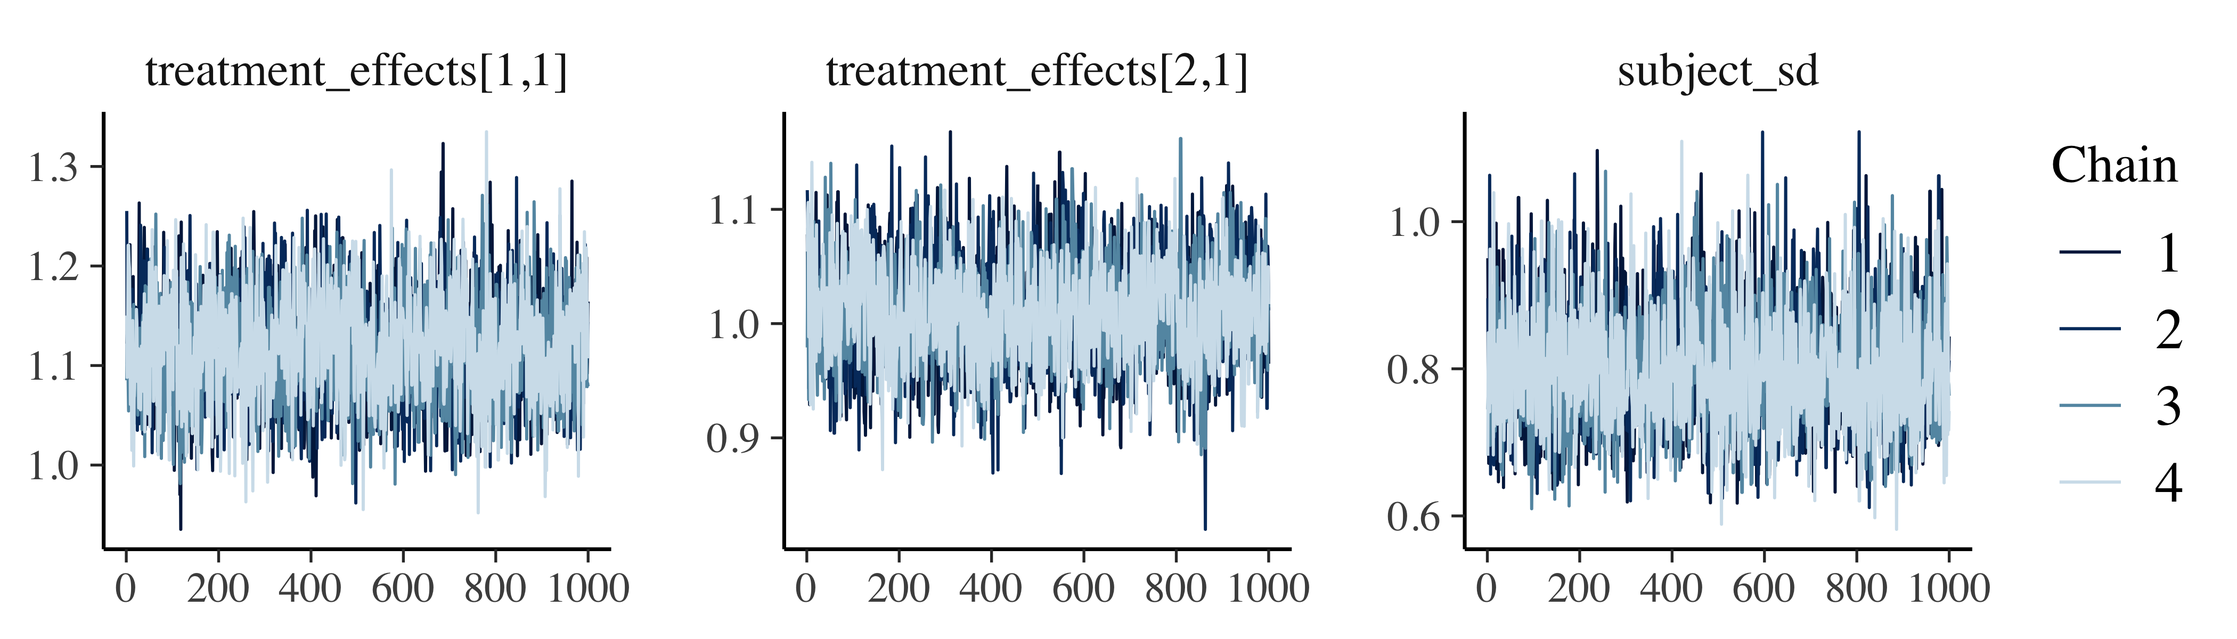
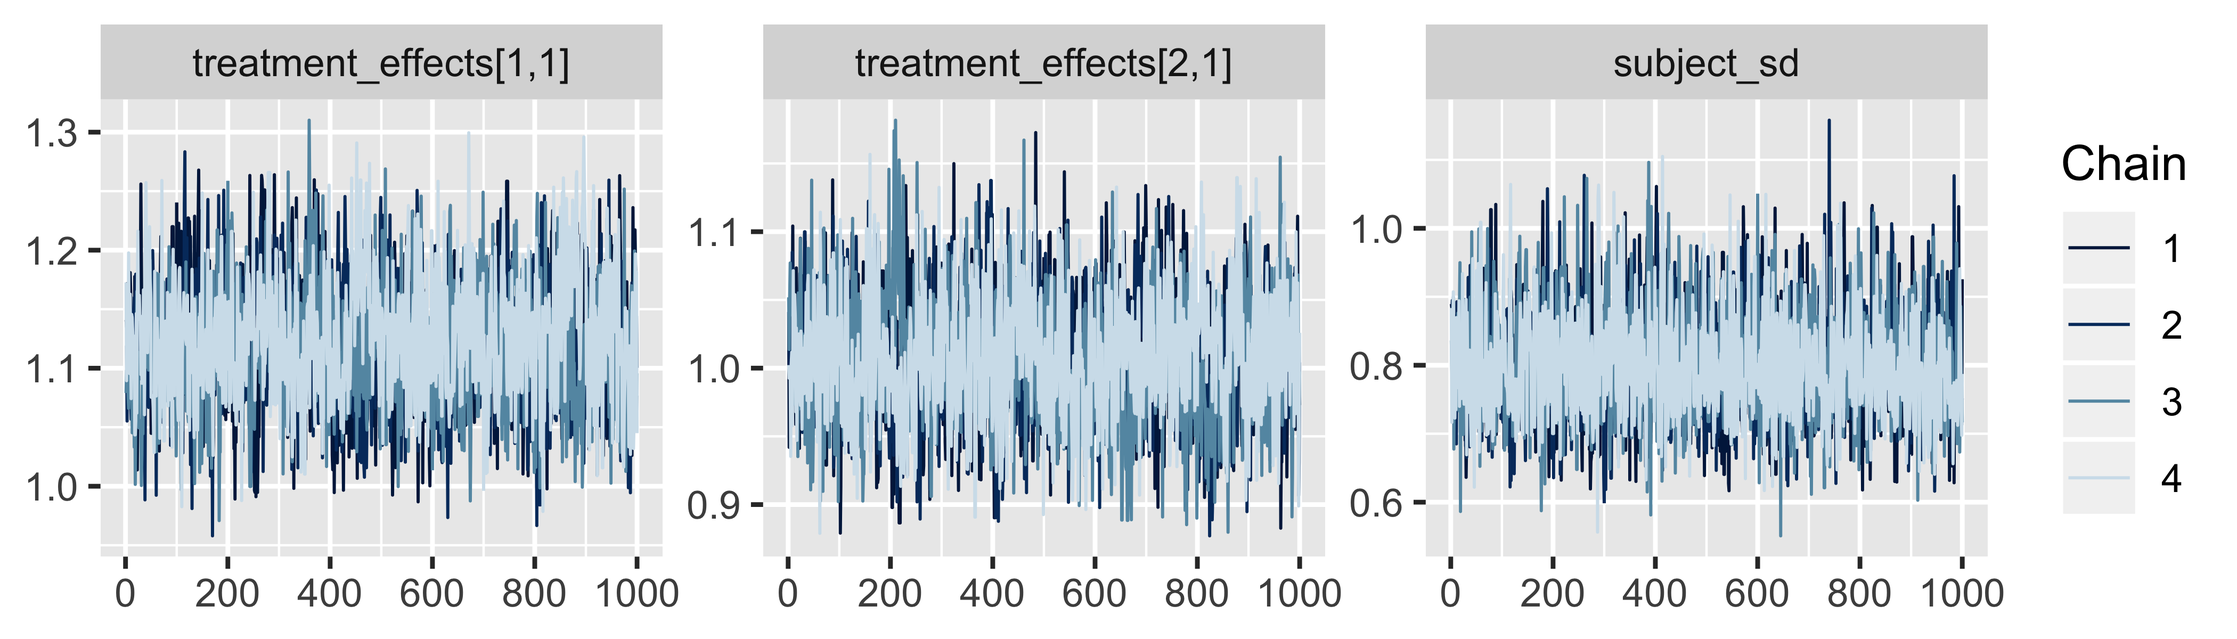
incorporate Nick T's comments

diff --git a/paper/paper.md b/paper/paper.md
@@ -24,33 +24,38 @@ output:
 
 # Summary
 
-Statistical modelling useful throughout the sciences. Often a need to write custom models that cannot be fitted using off-the shelf statistical software (such as software for for fitting mixed effects models). Hence writing out the model in a modelling language and fitting them by MCMC or maximum likelihood. This lets the user focus on the statistical nature of the model, rather than implementation details and inference procedures. This has lead to the development of software including BUGS, JAGS and NIMBLE [@openbugs; @jags; @nimble]. In these software packages, users typically write out models in a domain-specific language which is then compiled into computational code - though see the Python packages PyMC and Edward [@pymc; @edward].
+Statistical modelling is used throughout the sciences.
+Often, statistical analyses require custom models that cannot be fitted using off-the shelf statistical software.
+These models can be specified in a statistical syntax and can then be automatically fit to data using methods such as Markov Chain monte Carlo (MCMC) and maximum likelihood.
+This lets users focus on the statistical nature of the model, rather than implementation details and inference procedures.
+Since the development of the widely successful WinBUGS (later developed as OpenBUGS; @openbugs) a number of alternative software packages for custom statistical modelling have been introduced, including JAGS, Stan, and NIMBLE [@jags; @stan; @nimble].
+In these software packages, users typically write out models in a domain-specific language, which is then compiled into computational code.
+Though see the Python packages PyMC and Edward [@pymc; @edward] in which models are specified in Python code.
 
-With increasing quantitites of data and increasing complexity and realism of the statistical models that users wish to buiold with these software, ther is a push for software that scales better with data size and model complexity. Therefore using Hamiltonian Monte Carlo rather than Gibbs samplers, and paying particular attention to computational efficiency (Stan) [@stan].
+With increasing quantities of data, complexity, and realism of statistical models that users wish to build with these software, there is a push for software that scales better with data size and model complexity.
+More recently, custom statistical modelling software has focussed on methods such as Hamiltonian Monte Carlo (rather than Gibbs samplers) in order to improve to computational efficiency.
+This can be seen for example in the development of Stan [@stan].
 
-greta is an R package for statistical modelling that has three core differences to commonly used statistical modelling software packages:
+greta is an package for statistical modelling in R [@Rcore] that has three core differences to commonly used statistical modelling software packages:
 
   1. greta models are written interactively in R code rather than in a compiled domain specific language.
   2. greta can be extended by other R packages; providing a fully-featured package management system for extensions.
-  3. greta performs statistical inference using TensorFlow [@tf] enabling it to scale across modern high-performance computing systems.
+  3. greta performs statistical inference using TensorFlow [@tf], enabling it to scale across modern high-performance computing systems.
   
-greta can be used to construct both Bayesian and non-Bayesian statistical models, and perform inference via MCMC or optimisation (for maximum likelihood or maximum *a posteriori* estimation). The default MCMC algorithm is Hamiltonian Monte Carlo, which is generally very efficient for Bayesian models with large numbers of parameters or highly-correlated posteriors.
+greta can be used to construct both Bayesian and non-Bayesian statistical models, and perform inference via MCMC or optimisation (for maximum likelihood or maximum *a posteriori* estimation).
+The default MCMC algorithm is Hamiltonian Monte Carlo, which is generally very efficient for Bayesian models with large numbers of parameters or highly-correlated posteriors.
 
-The project website [https://greta-stats.org/]() hosts a *getting started* guide, worked examples of analyses using greta, a catalogue of example models, documentation, and a user forum.
+The project website [https://greta-stats.org/](https://greta-stats.org/) hosts a *getting started* guide, worked examples of analyses using greta, a catalogue of example models, documentation, and a user forum.
+
+The remainder of this paper provides an example of custom statistical modelling in greta, discusses the computational implementation of greta and how it can be extended, and highlights features that are planned for inclusion in the package.
 
 ## Example
 
-The following illustrates a typical modelling session with greta, using a
-Bayesian hierarchical model to estimate the treatment effect of epilepsy
-medication using data provided in the MASS R package (@mass, distributed
-with R) and analysed in the corresponding book.
+The following illustrates a typical modelling session with greta, using a Bayesian hierarchical model to estimate the treatment effect of epilepsy medication using data provided in the MASS R package (@mass, distributed with R) and analysed in the corresponding book.
 
 
 
-Before we specify the greta model, we format the data to make out lives
-easier; adding a numeric version of the treatment type and making a vector of
-the (8-week) baseline counts for each subject (these counts are replicated in
-the epil object).
+Before we specify the greta model we format the data,  adding a numeric version of the treatment type and making a vector of the (8-week) baseline counts for each subject (these counts are replicated in the epil object).
 
 
 ```r
@@ -59,10 +64,8 @@ epil$trt_id <- as.numeric(epil$trt)
 baseline_y <- epil$base[!duplicated(epil$subject)]
 ```
 
-Next we load greta and start building our model, starting with a random
-intercept model for the baseline (log-)seizure rates, to account for the fact
-that each individual will have a different seizure rate, irrespective of
-the treatment they receive.
+Next we load greta and start building our model, starting with a random intercept model for the baseline (log-)seizure rates, to account for the fact that each individual will have a different seizure rate, irrespective of the treatment they receive.
+Variables in greta models - like `subject_mean`, and `baseline_effects` in the below code - are represented by `greta_array` objects, which have unknown values and are used to interactively build up the statistical formulation of the model (see *Implementation* for details).
 
 
 ```r
@@ -72,17 +75,14 @@ library(greta)
 subject_mean <- normal(0, 10)
 subject_sd <- cauchy(0, 1, truncation = c(0, Inf))
 
-# hierararchical model for baseline rates (transformed to b positive)
+# hierararchical model for baseline rates (transformed to be positive)
 subject_effects <- normal(subject_mean, subject_sd, dim = 59)
 baseline_rates <- exp(subject_effects)
 ```
 
-Next we build model for the effects (the ratio of post-treatment to
-pre-treatment seizure rates) of the two treatments: placebo and progabide. We
-give these positive-truncated normal priors (they are multiplicative effects,
-so must be positive), and centre them at 1 to represent a prior expectation of
-no effect. We multiply these effects by the baseline rates to get the
-post-treatment rates for each observation in the dataset.
+Next we build a model for the effects (the ratio of post-treatment to pre-treatment seizure rates) of the two treatments: *placebo* and *progabide*.
+We give these positive-truncated normal priors (they are multiplicative effects, so must be positive), and centre them at 1 to represent a prior expectation of no effect.
+We multiply these effects by the baseline rates to get the post-treatment rates for each observation in the dataset.
 
 
 ```r
@@ -91,11 +91,9 @@ treatment_effects <- normal(1, 1, dim = 2, truncation = c(0, Inf))
 post_treatment_rates <- treatment_effects[epil$trt_id] * baseline_rates[epil$subject]
 ```
 
-Finally we specify the distributions over the observed data. Here we use two
-likelihoods: one for the baseline count (over an 8 week period) and one for
-each of the post-treatment counts (over 2 week periods). We multiply our
-modelled weekly rates by the number of weeks the counts represent to get the
-appropriate rate for that period.
+Finally we specify the distributions over the observed data.
+Here we use two likelihoods: one for the baseline count (over an 8 week period) and one for each of the post-treatment counts (over 2 week periods).
+We multiply our modelled weekly rates by the number of weeks the counts represent to get the appropriate rate for that period.
 
 
 ```r
@@ -103,21 +101,16 @@ distribution(baseline_y) <- poisson(baseline_rates * 8)
 distribution(epil$y) <- poisson(post_treatment_rates * 2)
 ```
 
-Now we can create a model object using these greta arrays, naming the
-parameters that we are most interested in, and then run an MCMC sampler on the
-model.
+Now we can create a model object using these greta arrays, naming the parameters that we are most interested in, and then run 4 chains of a Hamiltonian Monte Carlo sampler on the model, taking around 25 seconds on a laptop.
 
 
 ```r
 m <- model(treatment_effects, subject_sd)
-draws <- mcmc(m)
+draws <- mcmc(m, chains = 4)
 ```
 
-The ``draws`` object contains posterior samples in an `mcmc.list` object from
-the coda package [@coda], for which there are many packages and utilities to
-summarise the posterior samples. Here' we'll use the bayesplot package
-[@bayesplot] to create trace plots for the parameters of interest, and the
-coda package to get $\hat{R}$ statistics to assess convergence of these parameters.
+The `draws` object contains posterior samples in an `mcmc.list` object from the coda package [@coda], for which there are many packages and utilities to summarise the posterior samples.
+Here we'll use the bayesplot package [@bayesplot] to create trace plots for the parameters of interest, and the coda package to get $\hat{R}$ statistics to assess convergence of these parameters.
 
 
 ```r
@@ -134,18 +127,16 @@ coda::gelman.diag(draws)
 ## Potential scale reduction factors:
 ## 
 ##                        Point est. Upper C.I.
-## treatment_effects[1,1]          1       1.01
-## treatment_effects[2,1]          1       1.00
-## subject_sd                      1       1.01
+## treatment_effects[1,1]       1.01       1.04
+## treatment_effects[2,1]       1.01       1.05
+## subject_sd                   1.00       1.01
 ## 
 ## Multivariate psrf
 ## 
-## 1
+## 1.02
 ```
 
-We can summarise the posterior samples to get the treatment effect estimates
-for placebo and progabide, the first and second elements of
-`treatment_effects` respectively.
+We can summarise the posterior samples to get the treatment effect estimates for placebo and progabide, the first and second elements of `treatment_effects`, respectively.
 
 
 ```r
@@ -154,18 +145,19 @@ summary(draws)$statistics
 
 ```
 ##                             Mean         SD     Naive SE Time-series SE
-## treatment_effects[1,1] 1.1176199 0.05278737 0.0008346416   0.0011645811
-## treatment_effects[2,1] 1.0107183 0.04462845 0.0007056378   0.0008762349
-## subject_sd             0.7991257 0.07826540 0.0012374846   0.0014946363
+## treatment_effects[1,1] 1.1211557 0.05246518 0.0008295473    0.001509931
+## treatment_effects[2,1] 1.0074123 0.04566422 0.0007220147    0.001395410
+## subject_sd             0.8003238 0.07867619 0.0012439797    0.001333331
 ```
 
-These parameter estimates tell us the ratio of seizures rates during and
-before the treatment period for both the drug and placebo treatments. To
-calculate the effect of the drug relative to the placebo, we would take the ratio of the seizure rates between the drug treatment and the placebo treatment. We didn't include that term in our model, but fortunately there's no need to re-fit the model. greta's `calculate()` function lets us compute model quantities after model fitting.
+These parameter estimates tell us the ratio of seizure rates during and before the treatment period for both the drug and placebo treatments.
+To calculate the effect of the drug relative to the placebo, we would take the ratio of the seizure rates between the drug treatment and the placebo treatment.
+We didn't include that term in our model, but fortunately there's no need to re-fit the model.
+greta's `calculate()` function lets us compute model quantities after model fitting.
 
 
 ```r
-# create a drug effect greta array and calculate posterior samples
+# create a drug effect variable and calculate posterior samples
 drug_effect <- treatment_effects[2] / treatment_effects[1]
 drug_effect_draws <- calculate(drug_effect, draws)
 summary(drug_effect_draws)$statistics
@@ -173,41 +165,63 @@ summary(drug_effect_draws)$statistics
 
 ```
 ##           Mean             SD       Naive SE Time-series SE 
-##   0.9063622467   0.0585752902   0.0009261567   0.0012205338
+##   0.9004330745   0.0574290367   0.0009080328   0.0016683350
 ```
 
-`calculate()` can also be used for posterior prediction: we can reuse greta arrays for model parameters in combination with predictor variables to make a greta array for the predicted values of the new observations, then use `calculate()` to compute the posterior samples for these predictions. This means that  greta can be used in a predictive modelling workflow in which the data to predict to isn't available before model fitting, and without having to hand-code the predictions for all posterior samples.
+`calculate()` can also be used for posterior prediction: we can reuse greta arrays for model parameters in combination with predictor variables to make a greta array for the predicted values of the new observations, then use `calculate()` to compute the posterior samples for these predictions.
+This means greta can be used in a predictive modelling workflow in which the data to predict to isn't available before model fitting, and without having to hand-code the predictions for all posterior samples.
 
 ## Implementation
 
-As in the example above, users of greta build up their models by creating and manipulating `greta_array` objects representing parameters of other quantities in the model. `greta_array`s behave like R's arrays, vectors and scalars, but with unknown values. greta extends a number of R's mathematical functions and other operations to work with greta arrays, so users can manipulate them as they would any other numeric object in R.
+As in the example above, users of greta build up their models by creating and manipulating `greta_array` objects representing parameters of other quantities in the model.
+`greta_array`s behave like R's arrays, vectors and scalars, but with unknown values.
+greta extends a number of R's mathematical functions and other operations to work with greta arrays, so users can manipulate them as they would any other numeric object in R.
 
-Internally, each of these greta arrays is represented by an R6 object [@r6], with information on the greta arrays from which they were created, or which re created with them. Together, these R6 objects constitute a directed acyclic graph (DAG), combining data, operations, variables, and probability densities. This DAG is then used to construct a function in TensorFlow code representing the joint density of the model. This core computational functionality, including optimisers and MCMC samplers, is provided by the TensorFlow and TensorFlow Probability python packages [@tf; @tfp], accessed from R via the tensorflow and reticulate R packages [@r_tf; @reticulate].
+Internally, each of these greta arrays is represented by an R6 object [@r6], with information on the greta arrays from which they were created, or which re created with them.
+Together, these R6 objects constitute a directed acyclic graph (DAG), combining data, operations, variables, and probability densities.
+This DAG is then used to construct a function in TensorFlow code representing the joint density of the model.
+This core computational functionality, including optimisers and MCMC samplers, is provided by the TensorFlow and TensorFlow Probability Python packages [@tf; @tfp], accessed from R via the tensorflow and reticulate R packages [@r_tf; @reticulate].
 
 ## Parallelisation
 
-Whereas most MCMC software packages enable parallelisation by running each MCMC chain to run on a separate CPU, greta's use of TensorFlow means it can parallelise MCMC on a single chain across an arbitrary number of CPUs. By installing the appropriate version of TensorFlow, greta models can also be run on Graphics Processing Units (GPUs). greta is also integrated with the future R package [@future] for remote and parallel processing, providing a simple interface to run inference for each chain of MCMC on a separate, remote machines. As a consequence, inference on greta models can be scaled up to make use of modern high-performance conpute systems.
+Whereas most MCMC software packages enable parallelisation by running each MCMC chain to run on a separate CPU, greta's use of TensorFlow means it can parallelise MCMC on a single chain across an arbitrary number of CPUs.
+By installing the appropriate version of TensorFlow, greta models can also be run on Graphics Processing Units (GPUs).
+greta is also integrated with the future R package [@future] for remote and parallel processing, providing a simple interface to run inference for each chain of MCMC on a separate, remote machine.
+As a consequence, inference on greta models can be scaled up to make use of modern high-performance compute systems.
 
 ## Extending greta
 
-greta is not only designed to be extensible, but makes a deliberately distinction between the API for *users* who construct statistical models using existing functionality, and *developers* who add new functionality. Rather than letting users directly modify the inference target within a model, new probability distributions and operations are created using a developer user interface, exposed via the `.internals` object. Once developed in this way, it becomes simple to distribute this new functionality to other users via an R package that extends greta. Linking to the well established R package mechanism means that ``greta`` extensions automatically come with a  fully-featured package management system, with tooling for development and distribution via CRAN or code sharing platforms.
+greta is not only designed to be extensible, but makes a deliberately distinction between the API for *users* who construct statistical models using existing functionality, and *developers* who add new functionality.
+Rather than letting users directly modify the inference target within a model (which can be dangerous if used incorrectly), new probability distributions and operations are created using a developer user interface, exposed via the `.internals` object.
+Once developed in this way, it becomes simple to distribute this new functionality to other users via an R package that extends greta.
+Linking to the well established R package mechanism means that greta extensions automatically come with a  fully-featured package management system, with tooling for development and distribution via CRAN or code sharing platforms.
 
-Whilst anyone can write and distribute their own extension package, an aim of the greta project is to maintain a set of extension packages that meet software quality standards and are completely interoperable, in a similar way to the 'tidyverse' of R packages [@tidyverse] for data manipulation. These packages will be hosted on both the project GitHub organisation at [https://github.com/greta-dev/]() and on CRAN. There are currently a number of extensions in prototype form hosted on the GitHub organisation, including extensions to facilitate Gaussian process modelling (greta.gp), modelling dynamic systems (greta.dynamics) and generalised additive modelling (greta.gam).
+Whilst anyone can write and distribute their own extension package, an aim of the greta project is to maintain a set of extension packages that meet software quality standards and are completely interoperable, in a similar way to the 'tidyverse' of R packages [@tidyverse] for data manipulation.
+These packages will be hosted on both the project GitHub organisation at [https://github.com/greta-dev/](https://github.com/greta-dev/) and on CRAN.
+There are currently a number of extensions in prototype form hosted on the GitHub organisation, including extensions to facilitate Gaussian process modelling (greta.gp), modelling dynamic systems (greta.dynamics) and generalised additive modelling (greta.gam).
 
 ## Future work
 
-greta is under active development, and a range of of new features will be added to the core package and extension packages in the near future. Two of the most significant expected changes are the ability to perform inference on discrete-valued parameters, and to include direct or approximate marginalisation of parameters as part of a model.
+greta is under active development, and a range of of new features will be added to the core package and extension packages in the near future.
+Two of the most significant expected changes are the ability to perform inference on discrete-valued parameters, and to include direct or approximate marginalisation of parameters as part of a model.
 
 ### Discrete parameters
 
-greta currently only handles models with exclusively continuous-valued parameters, since these models are compatible with the most commonly used optimisation routines and the efficient HMC sampler that is used by default. In the near future, greta will be extended to enable users to perform inference on models with discrete-valued parameters as required, in combination with the (typically less efficient) samplers with which these models are compatible.
+greta currently only handles models with exclusively continuous-valued parameters, since these models are compatible with the most commonly used optimisation routines and the efficient HMC sampler that is used by default.
+In the near future, greta will be extended to enable users to perform inference on models with discrete-valued parameters as required, in combination with the (typically less efficient) samplers with which these models are compatible.
 
 ### Marginalisation
 
-Many common statistical modelling approaches, such as hierarchical models, use unobserved *latent* variables whose posterior distributions must be integrated over in order to perform inference on parameters of interest. Whilst MCMC is a general-purpose method for marginalising these parameters, other methods are often better suited to the task in specific models. For example where those latent variables are discrete-valued and efficient samplers cannot be used, or when deterministic numerical approximations such as a Laplace approximation are more computationally-efficient. A simple user interface to specifying these marginalisation schemes within a greta model is planned. This will enable users to experiment with combinations of different inference approaches without the need delve into nuances of implementation.
+Many common statistical modelling approaches, such as hierarchical models, use unobserved *latent* variables whose posterior distributions must be integrated over in order to perform inference on parameters of interest.
+Whilst MCMC is a general-purpose method for marginalising these parameters, other methods are often better suited to the task in specific models.
+For example where those latent variables are discrete-valued and efficient samplers cannot be used, or when deterministic numerical approximations such as a Laplace approximation are more computationally-efficient.
+A simple user interface to specifying these marginalisation schemes within a greta model is planned.
+This will enable users to experiment with combinations of different inference approaches without the need delve into nuances of implementation.
 
 # Acknowledgements
 
-I'd like to acknowledge direct contributions from Simon Dirmeier, Adam Fleischhacker, Shirin Glander, Martin Ingram, Lee Hazel, Tiphaine Martin, Matt Mulvahill, Michael Quinn, David Smith, Paul Teetor, and Jian Yen, as well as Jeffrey Pullin and many others who have provided feedback and suggestions on greta and its extensions. greta was developed with support from both a McKenzie fellowship from the University of Melbourne, and a DECRA fellowship from the Australian Research Council (DE180100635).
+I'd like to acknowledge direct contributions from Simon Dirmeier, Adam Fleischhacker, Shirin Glander, Martin Ingram, Lee Hazel, Tiphaine Martin, Matt Mulvahill, Michael Quinn, David Smith, Paul Teetor, and Jian Yen, as well as Jeffrey Pullin and many others who have provided feedback and suggestions on greta and its extensions.
+I would also like to thank Nick Tierney for comments and edits on this manuscript.
+greta was developed with support from both a McKenzie fellowship from the University of Melbourne, and a DECRA fellowship from the Australian Research Council (DE180100635).
 
 # References
